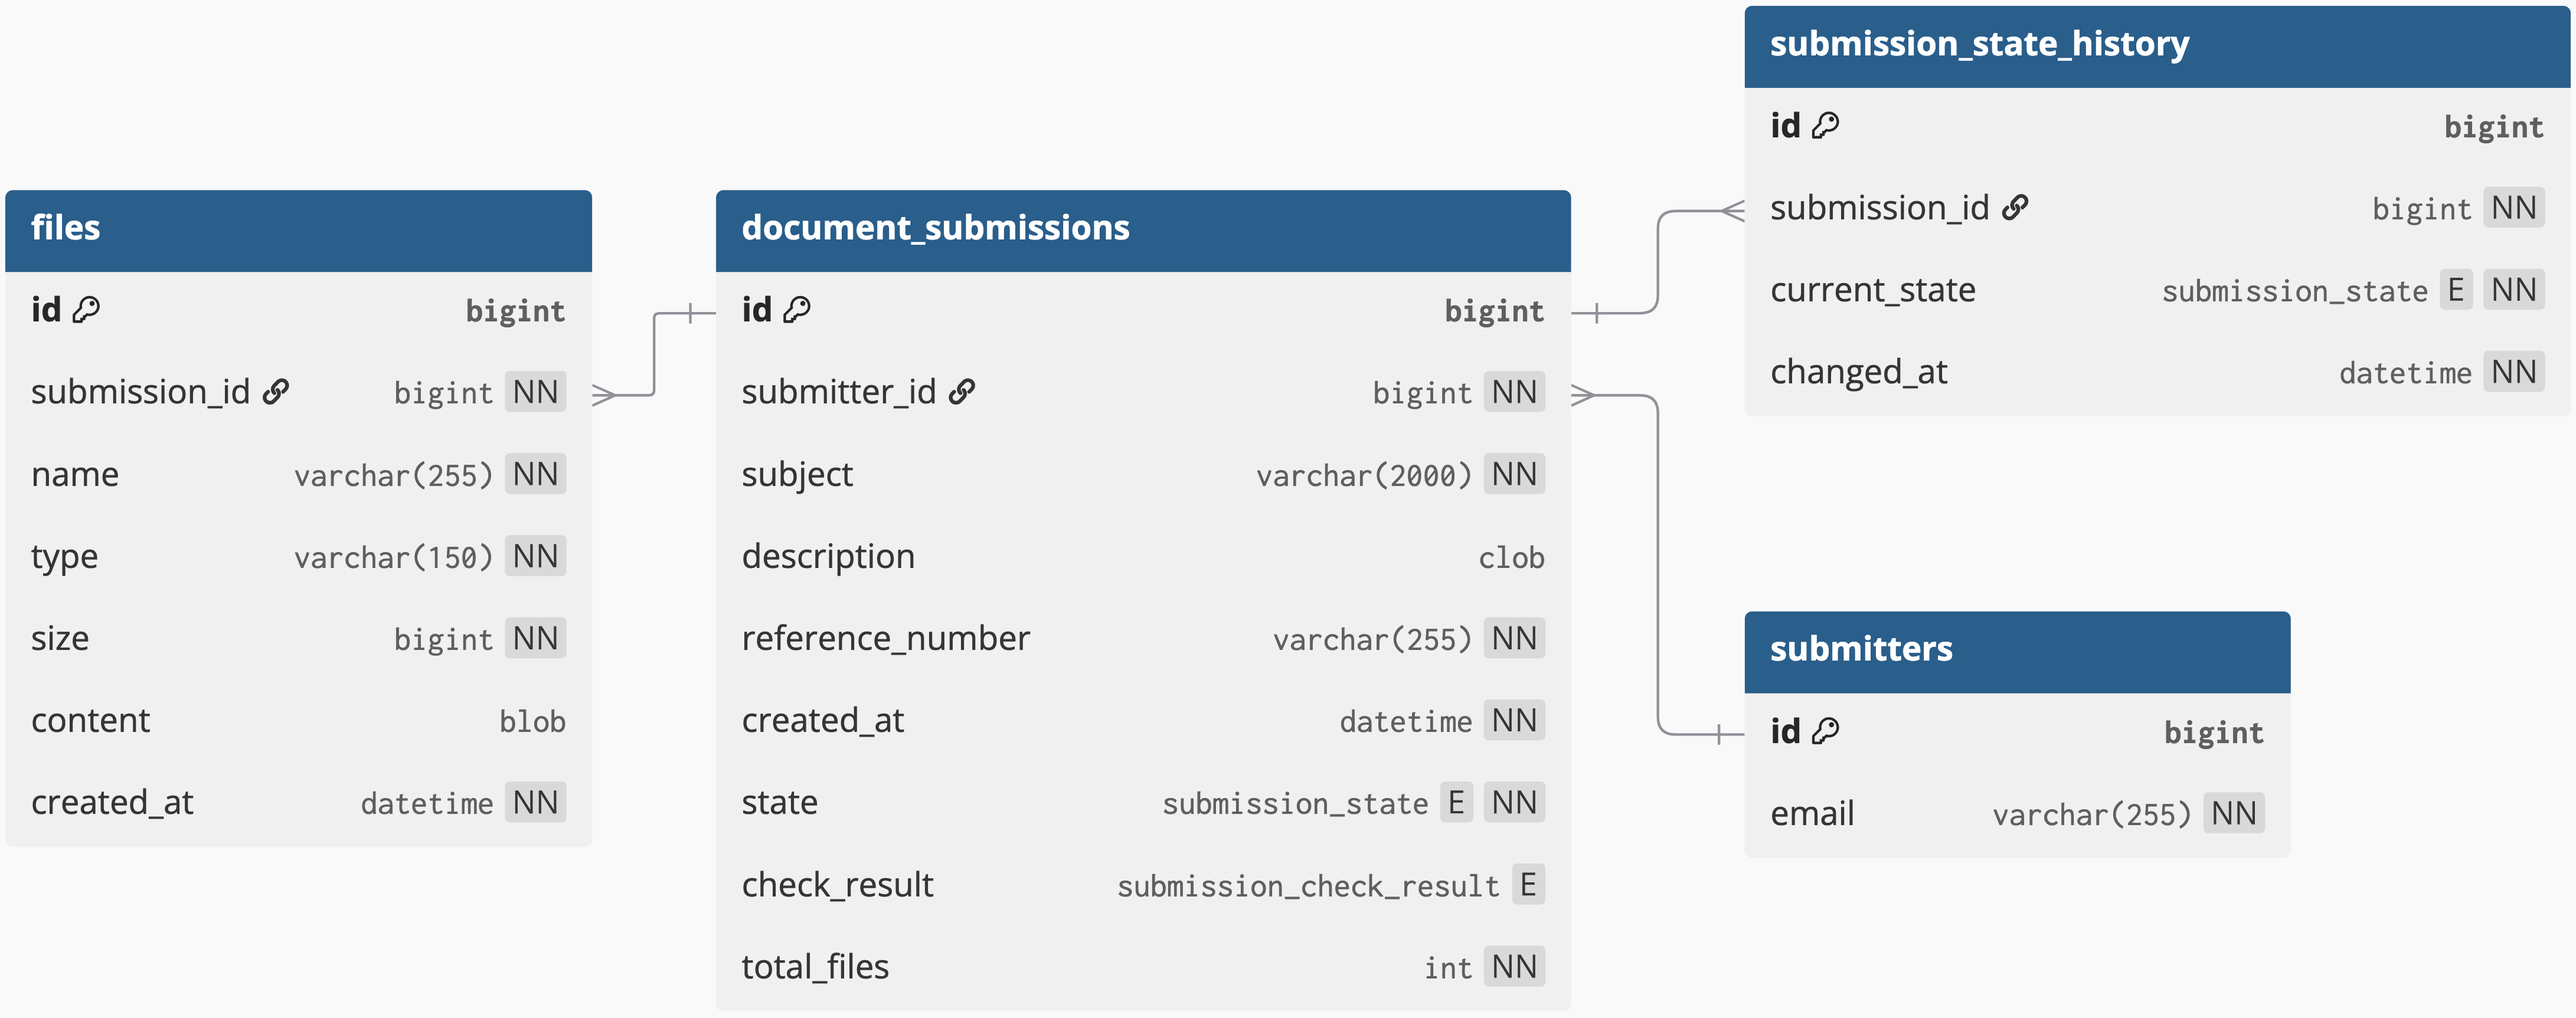
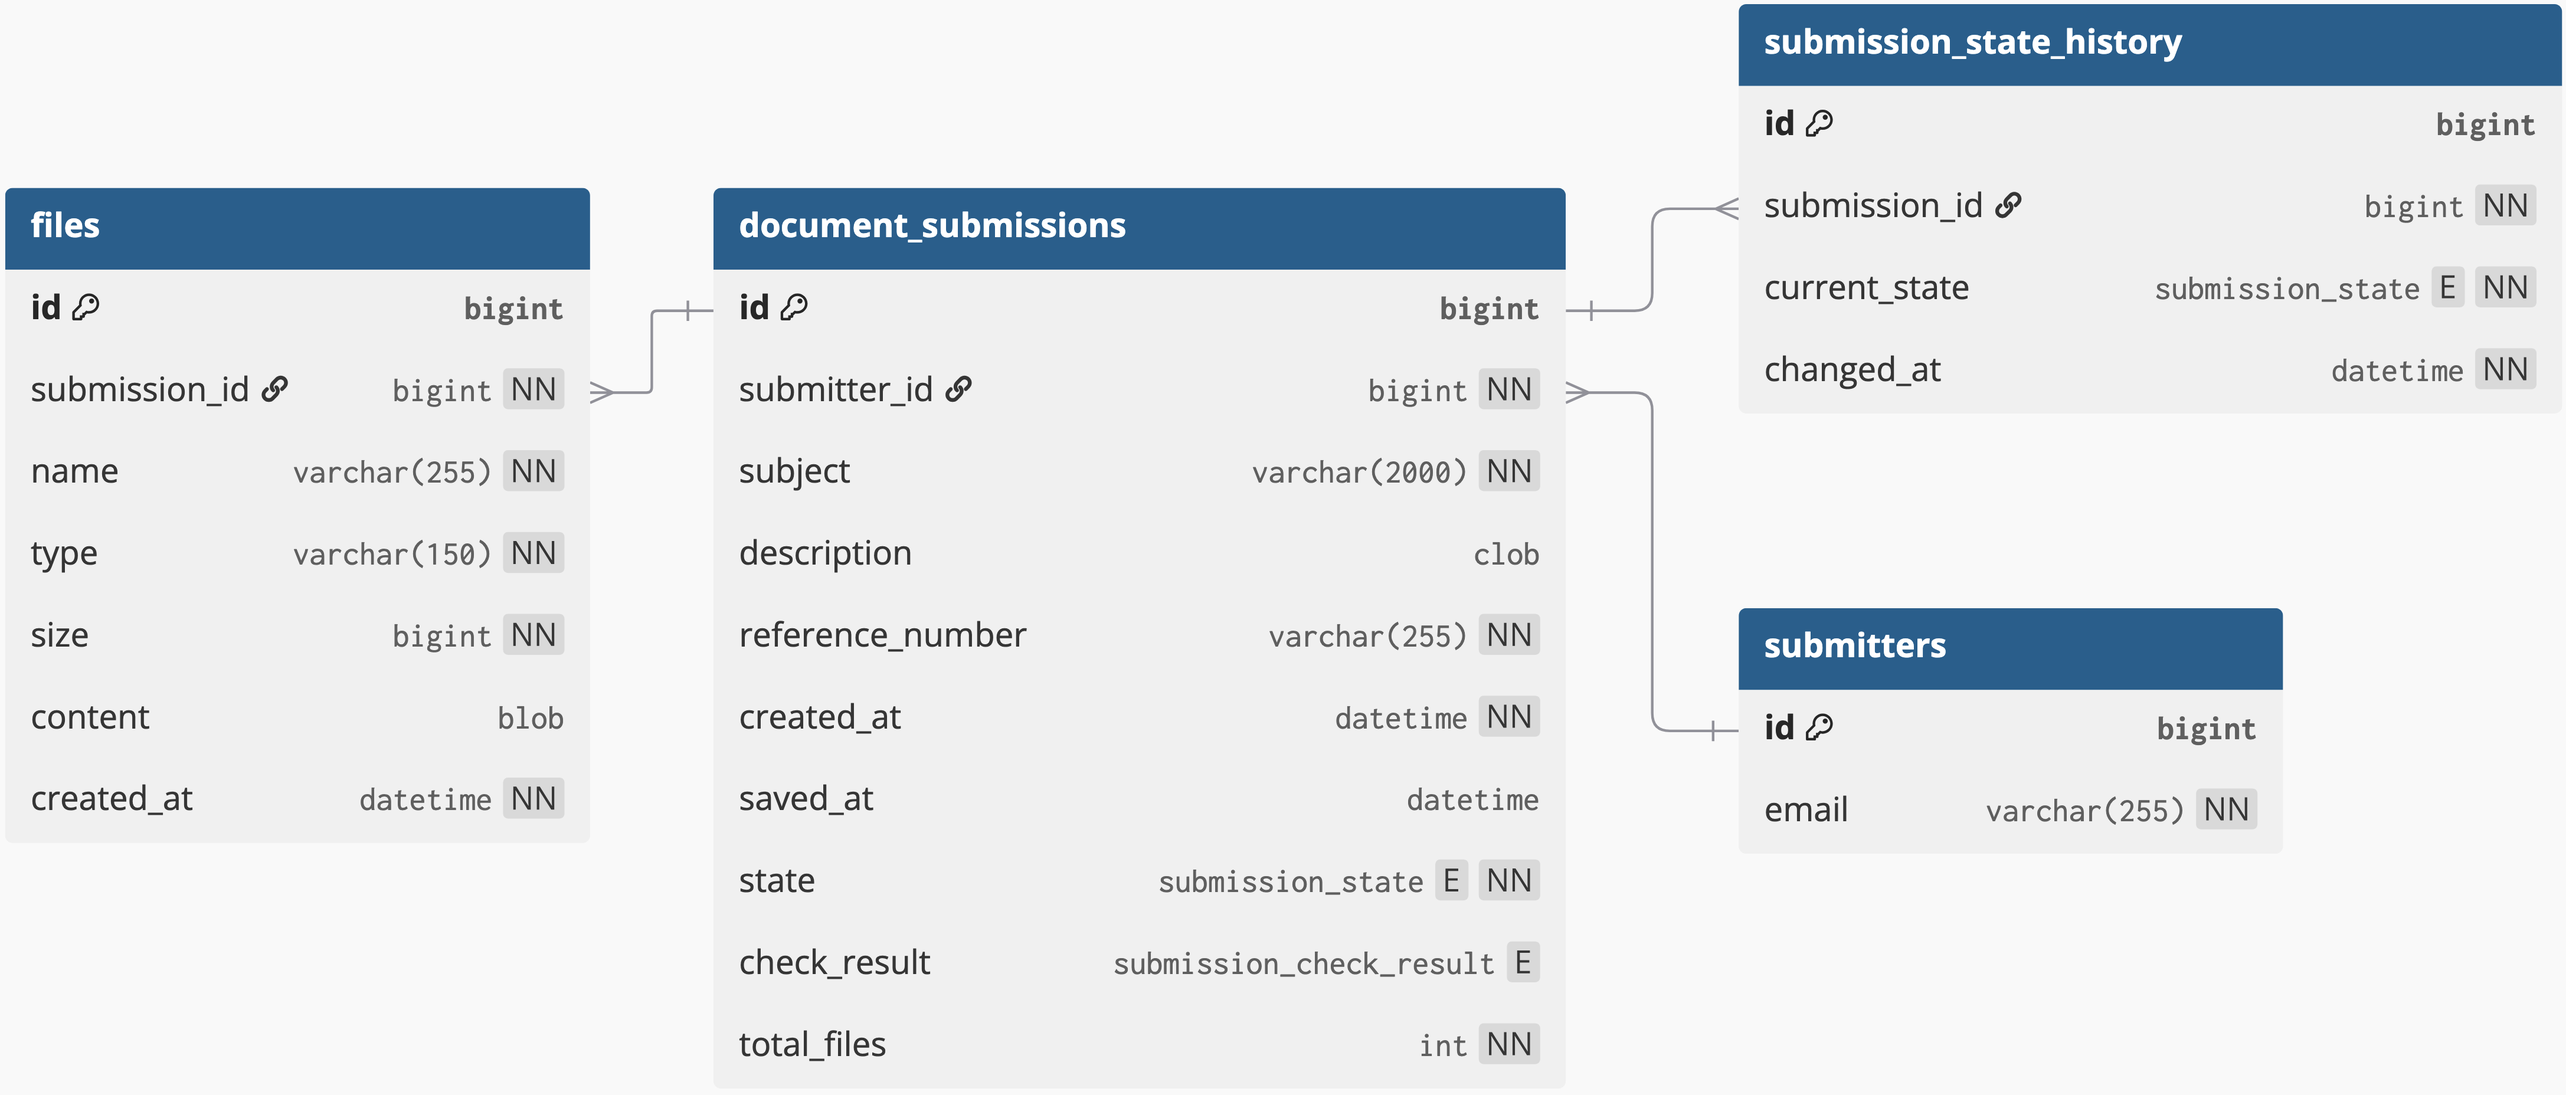
Add saved_at column to the DocumentSubmission

diff --git a/rabbitmq-app/src/main/java/com/asynchronous/app/service/RabbitConsumer.java b/rabbitmq-app/src/main/java/com/asynchronous/app/service/RabbitConsumer.java
@@ -12,11 +12,14 @@ import lombok.RequiredArgsConstructor;
 import lombok.extern.slf4j.Slf4j;
 import org.springframework.amqp.rabbit.annotation.RabbitListener;
 import org.springframework.stereotype.Service;
+import org.springframework.transaction.annotation.Transactional;
 
+import java.time.Instant;
 import java.util.List;
 
 @Slf4j
 @RequiredArgsConstructor
+@Transactional
 @Service
 public class RabbitConsumer {
 
@@ -42,6 +45,7 @@ public class RabbitConsumer {
 
         // Finally, update the submission state
         documentSubmissionService.updateSubmissionState(submission, SubmissionState.RESPONSE_SENT);
+        submission.setSavedAt(Instant.now());
 
         log.info("Submission with ID: {} processed successfully", submissionId);
     }

diff --git a/jms-app/src/main/java/com/asynchronous/app/service/JmsConsumer.java b/jms-app/src/main/java/com/asynchronous/app/service/JmsConsumer.java
@@ -12,11 +12,14 @@ import lombok.RequiredArgsConstructor;
 import lombok.extern.slf4j.Slf4j;
 import org.springframework.jms.annotation.JmsListener;
 import org.springframework.stereotype.Service;
+import org.springframework.transaction.annotation.Transactional;
 
+import java.time.Instant;
 import java.util.List;
 
 @Slf4j
 @RequiredArgsConstructor
+@Transactional
 @Service
 public class JmsConsumer {
 
@@ -42,6 +45,7 @@ public class JmsConsumer {
 
         // Finally, update the submission state
         documentSubmissionService.updateSubmissionState(submission, SubmissionState.RESPONSE_SENT);
+        submission.setSavedAt(Instant.now());
 
         log.info("Submission with ID: {} processed successfully", submissionId);
     }

diff --git a/synchronous-app/src/main/java/com/synchronous/app/service/SubmissionServiceImpl.java b/synchronous-app/src/main/java/com/synchronous/app/service/SubmissionServiceImpl.java
@@ -13,6 +13,7 @@ import lombok.extern.slf4j.Slf4j;
 import org.springframework.stereotype.Service;
 import org.springframework.web.multipart.MultipartFile;
 
+import java.time.Instant;
 import java.util.List;
 
 @Slf4j
@@ -41,6 +42,7 @@ public class SubmissionServiceImpl implements SubmissionService {
 
         // Finally, send a response
         documentSubmissionService.updateSubmissionState(submission, SubmissionState.RESPONSE_SENT);
+        submission.setSavedAt(Instant.now());
 
         log.info("Submission created successfully");
 

diff --git a/core/src/main/java/com/shared/core/entity/DocumentSubmission.java b/core/src/main/java/com/shared/core/entity/DocumentSubmission.java
@@ -102,6 +102,12 @@ public class DocumentSubmission {
     private Instant createdAt;
 
     @Column(
+        name = "saved_at",
+        nullable = true
+    )
+    private Instant savedAt;
+
+    @Column(
         name = "state",
         length = 13
     )

diff --git a/core/src/main/java/com/shared/core/model/SubmissionView.java b/core/src/main/java/com/shared/core/model/SubmissionView.java
@@ -11,6 +11,7 @@ public interface SubmissionView {
     String getDescription();
     String getReferenceNumber();
     Instant getCreatedAt();
+    Instant getSavedAt();
     String getState();
     String getCheckResult();
     List<FileView> getFiles();
